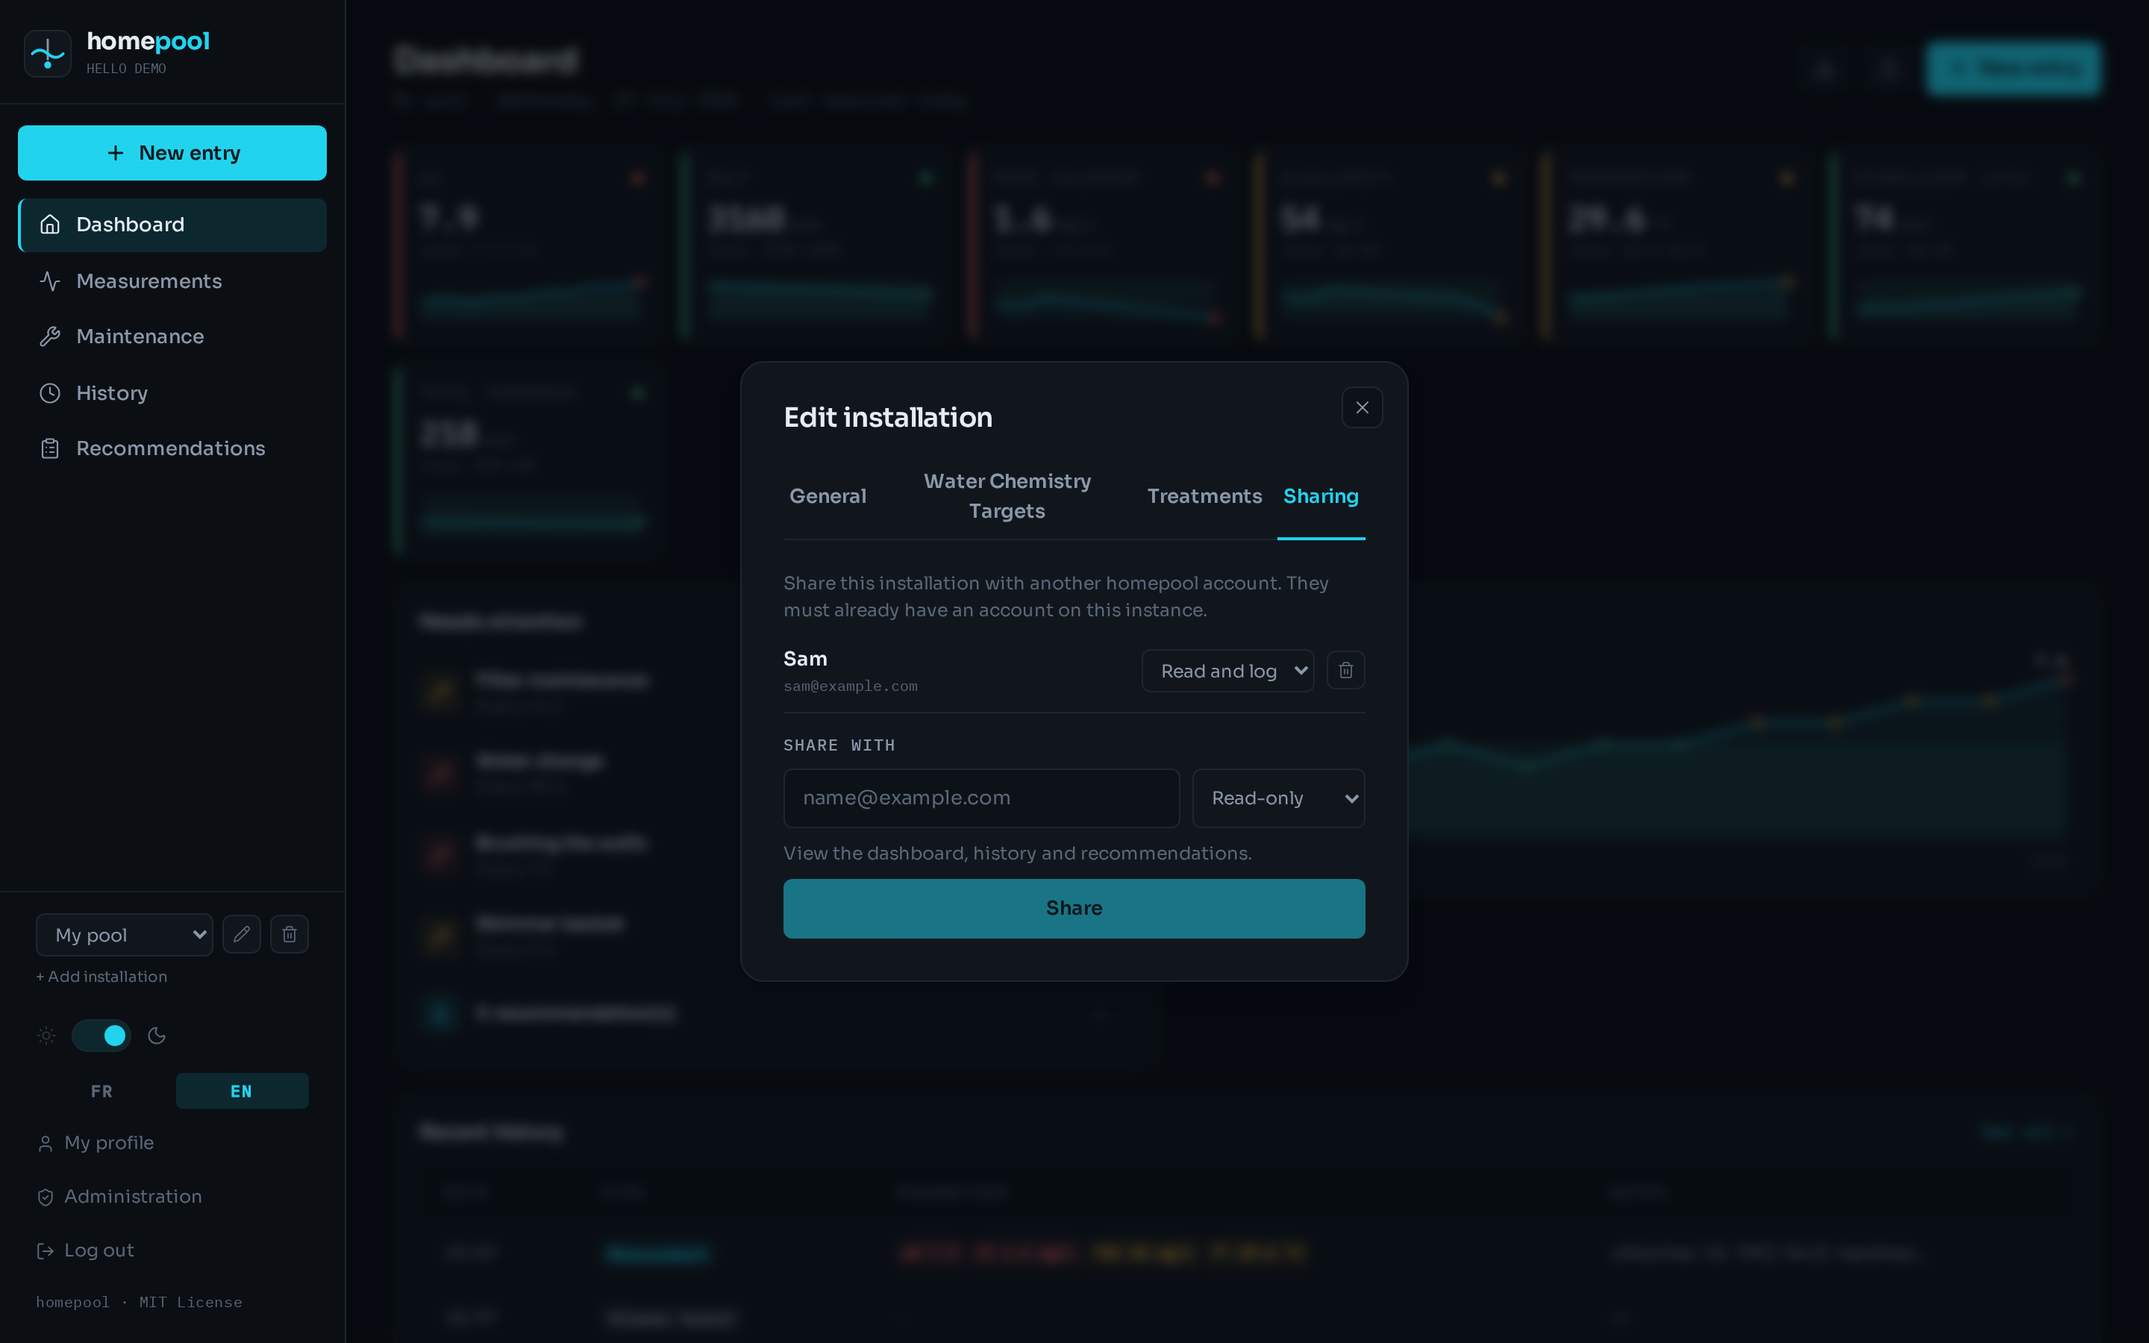
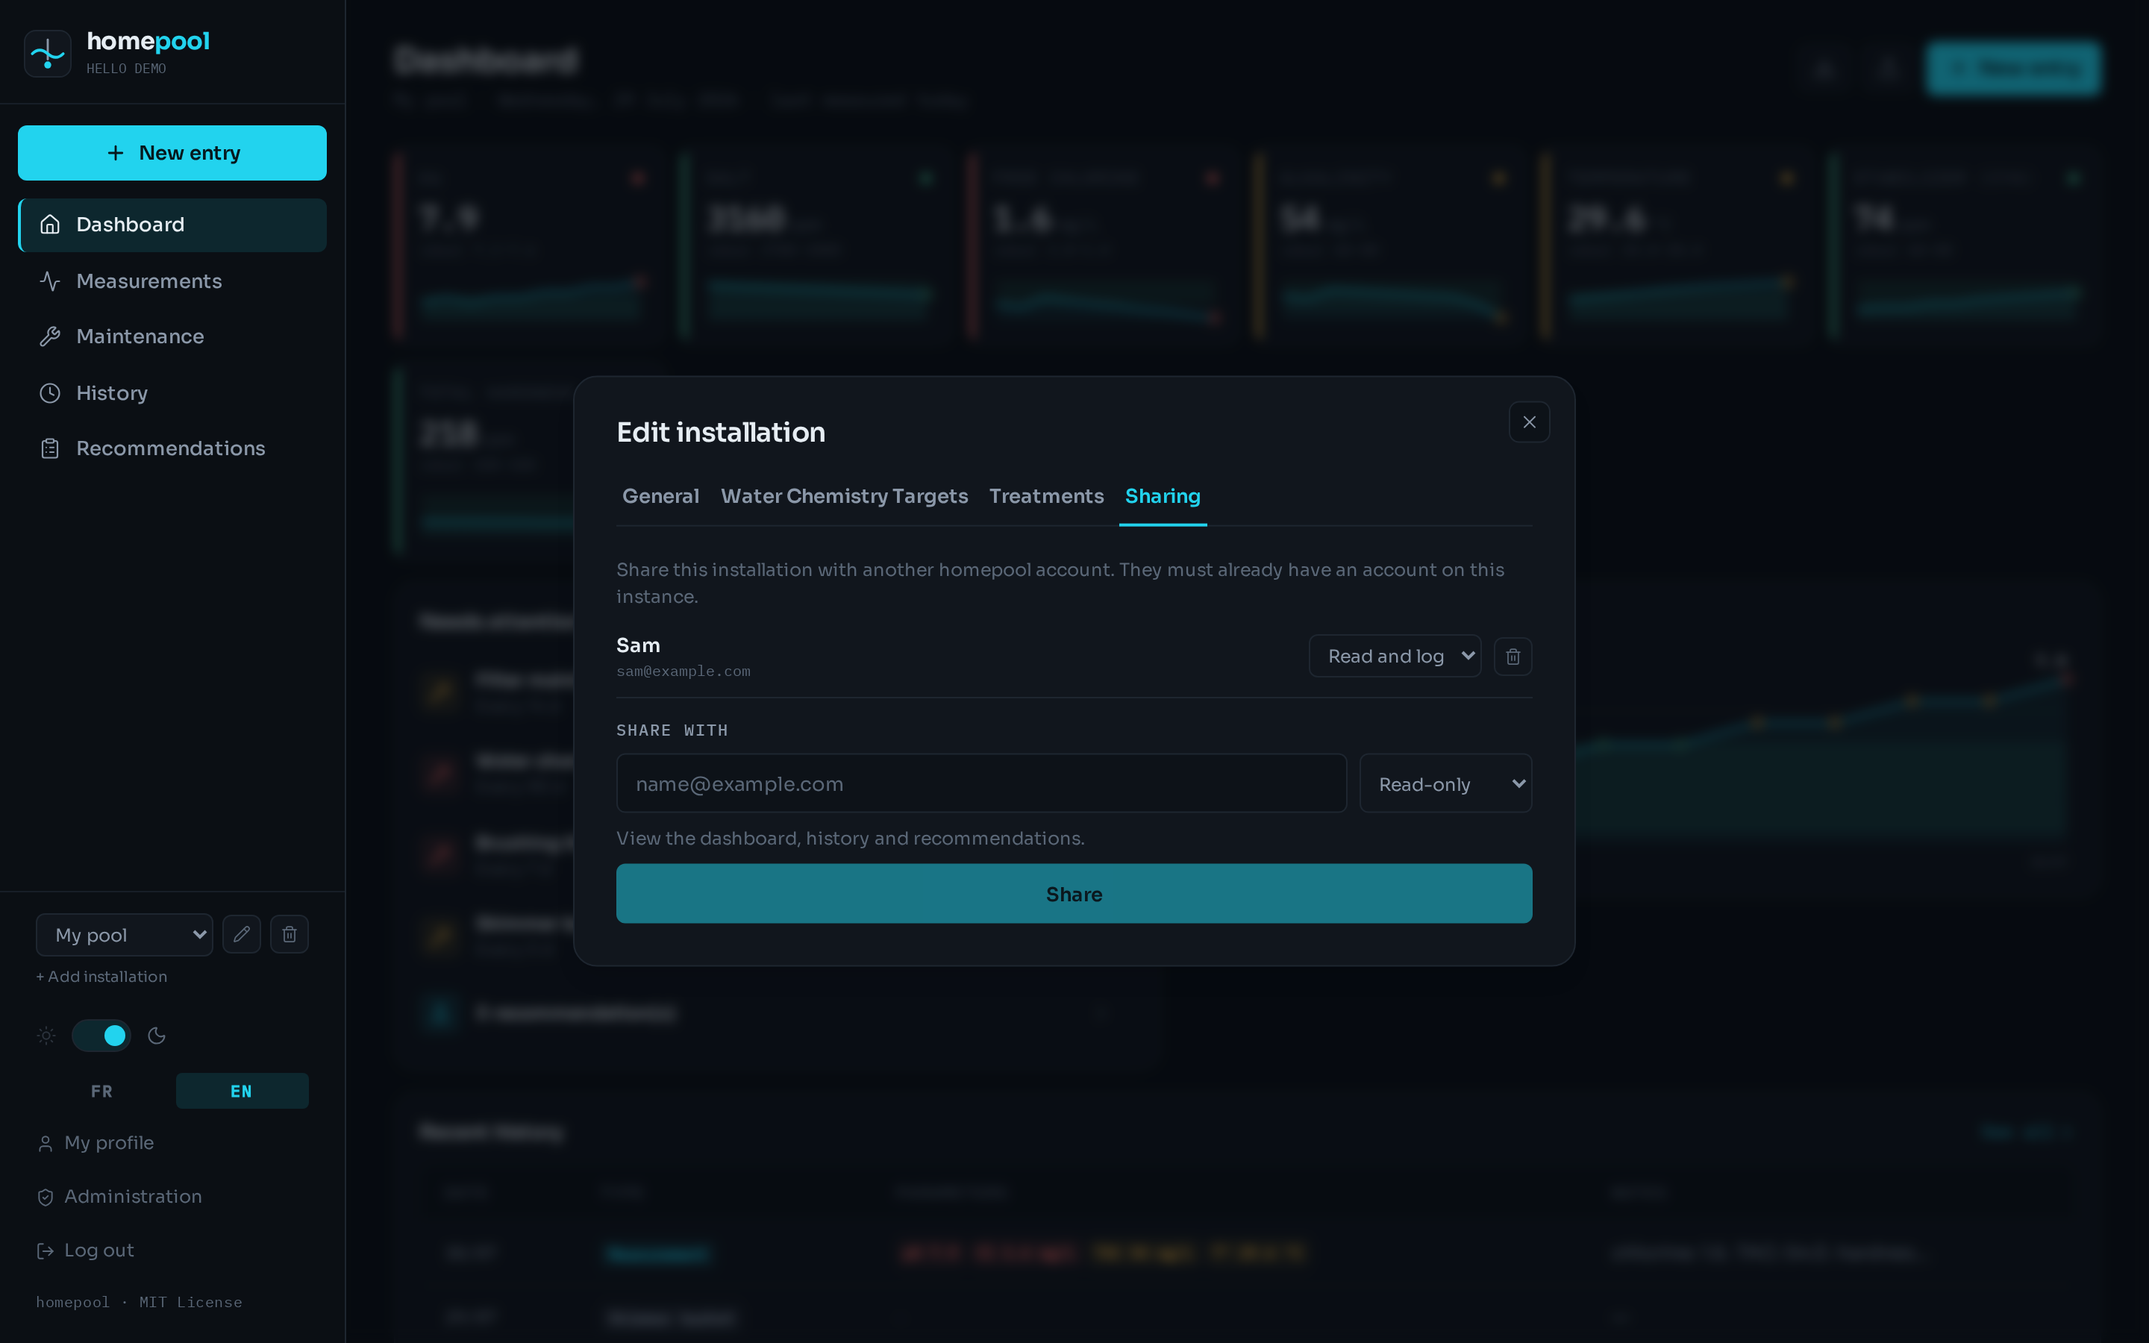
Give the settings and entry modals room to read (#58) (#59)

diff --git a/apps/web/src/components/TreatmentConfig.tsx b/apps/web/src/components/TreatmentConfig.tsx
@@ -204,10 +204,27 @@ export default function TreatmentConfig({ installation, onSaved }: Props) {
 
   const rows = draft.filter(row => !row.deleted)
 
+  // The name is the thing you read the row by, so it gets a floor it can't be
+  // squeezed below: on a narrow dialog (a phone) the unit/parameter/delete group
+  // drops to a second line rather than shaving the name down to a few letters.
   const rowStyle: React.CSSProperties = {
-    display: 'flex', alignItems: 'center', gap: 8,
+    display: 'flex', alignItems: 'center', flexWrap: 'wrap', gap: 8,
     padding: '10px 0', borderBottom: '1px solid var(--border)',
   }
+
+  const nameStyle = (enabled: boolean): React.CSSProperties => ({
+    flex: '1 1 150px', minWidth: 150, opacity: enabled ? 1 : 0.5,
+  })
+
+  const trailingStyle: React.CSSProperties = {
+    display: 'flex', alignItems: 'center', gap: 8, marginLeft: 'auto', flexShrink: 0,
+  }
+
+  // Floors, not fixed widths: they line the rows up into something close to
+  // columns while still letting a long value ("Stabilizer (CYA)") widen its own
+  // trigger rather than be clipped in it.
+  const unitTriggerStyle: React.CSSProperties = { minWidth: 72 }
+  const paramTriggerStyle: React.CSSProperties = { minWidth: 144 }
 
   return (
     <div className="flex flex-col flex-1 min-h-0">
@@ -247,54 +264,56 @@ export default function TreatmentConfig({ installation, onSaved }: Props) {
                 value={row.label}
                 onChange={e => patchRow(row.id, { label: e.target.value })}
                 aria-label={t('treat_product_name')}
-                style={{ flex: 1, minWidth: 0, opacity: row.enabled ? 1 : 0.5 }}
+                style={nameStyle(row.enabled)}
               />
 
-              <Select
-                value={row.default_unit}
-                onValueChange={v => patchRow(row.id, { default_unit: v })}
-              >
-                <SelectTrigger aria-label={t('treat_unit_label')} className="w-auto px-2 gap-1 shrink-0">
-                  <SelectValue />
-                </SelectTrigger>
-                <SelectContent>
-                  {TREATMENT_UNITS.map(u => <SelectItem key={u} value={u}>{u}</SelectItem>)}
-                </SelectContent>
-              </Select>
+              <div style={trailingStyle}>
+                <Select
+                  value={row.default_unit}
+                  onValueChange={v => patchRow(row.id, { default_unit: v })}
+                >
+                  <SelectTrigger aria-label={t('treat_unit_label')} className="w-auto px-2 gap-1 shrink-0" style={unitTriggerStyle}>
+                    <SelectValue />
+                  </SelectTrigger>
+                  <SelectContent>
+                    {TREATMENT_UNITS.map(u => <SelectItem key={u} value={u}>{u}</SelectItem>)}
+                  </SelectContent>
+                </Select>
 
-              <Select
-                value={row.param ?? NO_PARAM}
-                onValueChange={v => patchRow(row.id, { param: v === NO_PARAM ? null : v })}
-              >
-                <SelectTrigger aria-label={t('treat_param_label')} className="w-auto px-2 gap-1 shrink-0">
-                  <SelectValue />
-                </SelectTrigger>
-                <SelectContent>
-                  <SelectItem value={NO_PARAM}>{t('treat_param_none')}</SelectItem>
-                  {PARAM_CHOICES.map(p => (
-                    <SelectItem key={p.value} value={p.value}>{t(p.labelKey)}</SelectItem>
-                  ))}
-                </SelectContent>
-              </Select>
+                <Select
+                  value={row.param ?? NO_PARAM}
+                  onValueChange={v => patchRow(row.id, { param: v === NO_PARAM ? null : v })}
+                >
+                  <SelectTrigger aria-label={t('treat_param_label')} className="w-auto px-2 gap-1 shrink-0" style={paramTriggerStyle}>
+                    <SelectValue />
+                  </SelectTrigger>
+                  <SelectContent>
+                    <SelectItem value={NO_PARAM}>{t('treat_param_none')}</SelectItem>
+                    {PARAM_CHOICES.map(p => (
+                      <SelectItem key={p.value} value={p.value}>{t(p.labelKey)}</SelectItem>
+                    ))}
+                  </SelectContent>
+                </Select>
 
-              <button
-                type="button"
-                onClick={() => patchRow(row.id, { deleted: true })}
-                aria-label={t('treat_delete')}
-                title={t('treat_delete')}
-                style={{
-                  flexShrink: 0, width: 28, height: 28, borderRadius: 'var(--radius-sm)',
-                  background: 'none', border: 'none', color: 'var(--text-muted)', cursor: 'pointer',
-                  display: 'flex', alignItems: 'center', justifyContent: 'center',
-                }}
-              >
-                <Trash2 size={14} strokeWidth={1.75} aria-hidden="true" />
-              </button>
+                <button
+                  type="button"
+                  onClick={() => patchRow(row.id, { deleted: true })}
+                  aria-label={t('treat_delete')}
+                  title={t('treat_delete')}
+                  style={{
+                    flexShrink: 0, width: 28, height: 28, borderRadius: 'var(--radius-sm)',
+                    background: 'none', border: 'none', color: 'var(--text-muted)', cursor: 'pointer',
+                    display: 'flex', alignItems: 'center', justifyContent: 'center',
+                  }}
+                >
+                  <Trash2 size={14} strokeWidth={1.75} aria-hidden="true" />
+                </button>
+              </div>
             </div>
           ))}
 
           {/* Add a product */}
-          <div style={{ display: 'flex', alignItems: 'center', gap: 8, paddingTop: 12 }}>
+          <div style={{ display: 'flex', alignItems: 'center', flexWrap: 'wrap', gap: 8, paddingTop: 12 }}>
             <IconPicker
               value={newIcon}
               onChange={setNewIcon}
@@ -306,20 +325,22 @@ export default function TreatmentConfig({ installation, onSaved }: Props) {
               onKeyDown={e => { if (e.key === 'Enter') { e.preventDefault(); addCustom() } }}
               placeholder={t('treat_product_name_placeholder')}
               aria-label={t('treat_product_name')}
-              style={{ flex: 1, minWidth: 0 }}
+              style={nameStyle(true)}
             />
-            <Select value={newUnit} onValueChange={setNewUnit}>
-              <SelectTrigger aria-label={t('treat_unit_label')} className="w-auto px-2 gap-1 shrink-0">
-                <SelectValue />
-              </SelectTrigger>
-              <SelectContent>
-                {TREATMENT_UNITS.map(u => <SelectItem key={u} value={u}>{u}</SelectItem>)}
-              </SelectContent>
-            </Select>
-            <Button type="button" variant="outline" size="sm" onClick={addCustom} disabled={!newLabel.trim()}>
-              <Plus size={14} strokeWidth={2} aria-hidden="true" />
-              {t('treat_add')}
-            </Button>
+            <div style={trailingStyle}>
+              <Select value={newUnit} onValueChange={setNewUnit}>
+                <SelectTrigger aria-label={t('treat_unit_label')} className="w-auto px-2 gap-1 shrink-0" style={unitTriggerStyle}>
+                  <SelectValue />
+                </SelectTrigger>
+                <SelectContent>
+                  {TREATMENT_UNITS.map(u => <SelectItem key={u} value={u}>{u}</SelectItem>)}
+                </SelectContent>
+              </Select>
+              <Button type="button" variant="outline" size="sm" onClick={addCustom} disabled={!newLabel.trim()}>
+                <Plus size={14} strokeWidth={2} aria-hidden="true" />
+                {t('treat_add')}
+              </Button>
+            </div>
           </div>
         </div>
       )}

diff --git a/apps/web/src/components/MaintenanceConfig.tsx b/apps/web/src/components/MaintenanceConfig.tsx
@@ -199,14 +199,16 @@ export default function MaintenanceConfig({ installationId, open, onClose, onSav
 
   const rows = draft.filter(row => !row.deleted)
 
+  // Same wrapping rule as the treatment rows: the task name keeps a readable
+  // floor and the interval/delete group drops below it when the dialog is narrow.
   const rowStyle: React.CSSProperties = {
-    display: 'flex', alignItems: 'center', gap: 10,
+    display: 'flex', alignItems: 'center', flexWrap: 'wrap', gap: 10,
     padding: '10px 0', borderBottom: '1px solid var(--border)',
   }
 
   return (
     <Dialog open={open} onOpenChange={o => { if (!o) onClose() }}>
-      <DialogContent>
+      <DialogContent className="sm:max-w-lg">
         <DialogHeader>
           <DialogTitle style={{ fontFamily: '"Sora", sans-serif', fontWeight: 600 }}>
             {t('maint_config_title')}
@@ -250,41 +252,45 @@ export default function MaintenanceConfig({ installationId, open, onClose, onSav
                     value={row.label}
                     onChange={e => patchRow(row.id, { label: e.target.value })}
                     aria-label={t('maint_task_name')}
-                    style={{ flex: 1, minWidth: 0, opacity: row.enabled ? 1 : 0.5 }}
+                    style={{ flex: '1 1 150px', minWidth: 150, opacity: row.enabled ? 1 : 0.5 }}
                   />
 
-                  <div style={{ display: 'flex', alignItems: 'center', gap: 4, flexShrink: 0 }}>
-                    <Input
-                      type="number"
-                      min={0}
-                      value={String(row.interval_days)}
-                      onChange={e => patchRow(row.id, { interval_days: Math.max(0, parseInt(e.target.value, 10) || 0) })}
-                      aria-label={t('maint_interval_label')}
-                      style={{ width: 64, opacity: row.enabled ? 1 : 0.5 }}
-                    />
-                    <span style={{ fontFamily: "'IBM Plex Mono', monospace", fontSize: 11, color: 'var(--text-muted)' }}>
-                      {t('todo_day_abbr')}
-                    </span>
-                  </div>
+                  <div style={{ display: 'flex', alignItems: 'center', gap: 10, marginLeft: 'auto', flexShrink: 0 }}>
+                    <div style={{ display: 'flex', alignItems: 'center', gap: 4 }}>
+                      <Input
+                        type="number"
+                        min={0}
+                        value={String(row.interval_days)}
+                        onChange={e => patchRow(row.id, { interval_days: Math.max(0, parseInt(e.target.value, 10) || 0) })}
+                        aria-label={t('maint_interval_label')}
+                        // Wide enough for a three-digit interval (a yearly task
+                        // is 365) without the last digit crowding the border.
+                        style={{ width: 72, opacity: row.enabled ? 1 : 0.5 }}
+                      />
+                      <span style={{ fontFamily: "'IBM Plex Mono', monospace", fontSize: 11, color: 'var(--text-muted)' }}>
+                        {t('todo_day_abbr')}
+                      </span>
+                    </div>
 
-                  <button
-                    type="button"
-                    onClick={() => patchRow(row.id, { deleted: true })}
-                    aria-label={t('maint_delete')}
-                    title={t('maint_delete')}
-                    style={{
-                      flexShrink: 0, width: 28, height: 28, borderRadius: 'var(--radius-sm)',
-                      background: 'none', border: 'none', color: 'var(--text-muted)', cursor: 'pointer',
-                      display: 'flex', alignItems: 'center', justifyContent: 'center',
-                    }}
-                  >
-                    <Trash2 size={14} strokeWidth={1.75} aria-hidden="true" />
-                  </button>
+                    <button
+                      type="button"
+                      onClick={() => patchRow(row.id, { deleted: true })}
+                      aria-label={t('maint_delete')}
+                      title={t('maint_delete')}
+                      style={{
+                        flexShrink: 0, width: 28, height: 28, borderRadius: 'var(--radius-sm)',
+                        background: 'none', border: 'none', color: 'var(--text-muted)', cursor: 'pointer',
+                        display: 'flex', alignItems: 'center', justifyContent: 'center',
+                      }}
+                    >
+                      <Trash2 size={14} strokeWidth={1.75} aria-hidden="true" />
+                    </button>
+                  </div>
                 </div>
               ))}
 
               {/* Add a task */}
-              <div style={{ display: 'flex', alignItems: 'center', gap: 8, paddingTop: 12 }}>
+              <div style={{ display: 'flex', alignItems: 'center', flexWrap: 'wrap', gap: 8, paddingTop: 12 }}>
                 <IconPicker
                   value={newIcon}
                   onChange={setNewIcon}
@@ -296,20 +302,22 @@ export default function MaintenanceConfig({ installationId, open, onClose, onSav
                   onKeyDown={e => { if (e.key === 'Enter') { e.preventDefault(); addCustom() } }}
                   placeholder={t('maint_task_name_placeholder')}
                   aria-label={t('maint_task_name')}
-                  style={{ flex: 1, minWidth: 0 }}
+                  style={{ flex: '1 1 150px', minWidth: 150 }}
                 />
-                <Input
-                  type="number"
-                  min={0}
-                  value={newInterval}
-                  onChange={e => setNewInterval(e.target.value)}
-                  aria-label={t('maint_interval_label')}
-                  style={{ width: 64 }}
-                />
-                <Button type="button" variant="outline" size="sm" onClick={addCustom} disabled={!newLabel.trim()}>
-                  <Plus size={14} strokeWidth={2} aria-hidden="true" />
-                  {t('maint_add')}
-                </Button>
+                <div style={{ display: 'flex', alignItems: 'center', gap: 8, marginLeft: 'auto', flexShrink: 0 }}>
+                  <Input
+                    type="number"
+                    min={0}
+                    value={newInterval}
+                    onChange={e => setNewInterval(e.target.value)}
+                    aria-label={t('maint_interval_label')}
+                    style={{ width: 72 }}
+                  />
+                  <Button type="button" variant="outline" size="sm" onClick={addCustom} disabled={!newLabel.trim()}>
+                    <Plus size={14} strokeWidth={2} aria-hidden="true" />
+                    {t('maint_add')}
+                  </Button>
+                </div>
               </div>
             </div>
           )}

diff --git a/apps/web/src/App.tsx b/apps/web/src/App.tsx
@@ -241,7 +241,7 @@ function AppMain({ user, onLogout, onUserUpdate, theme, setTheme }: AppMainProps
 
       {/* Dialog — new entry */}
       <Dialog open={entryForm !== null} onOpenChange={open => { if (!open) setEntryForm(null) }}>
-        <DialogContent className="sm:max-w-md" onOpenAutoFocus={e => e.preventDefault()}>
+        <DialogContent className="sm:max-w-lg" onOpenAutoFocus={e => e.preventDefault()}>
           <DialogHeader>
             <DialogTitle style={{ fontFamily: '"Sora", sans-serif', fontWeight: 600 }}>
               {t('modal_title')}
@@ -261,7 +261,7 @@ function AppMain({ user, onLogout, onUserUpdate, theme, setTheme }: AppMainProps
 
       {/* Dialog — edit */}
       <Dialog open={!!editingAction} onOpenChange={open => { if (!open) setEditingAction(null) }}>
-        <DialogContent className="sm:max-w-md" onOpenAutoFocus={e => e.preventDefault()}>
+        <DialogContent className="sm:max-w-lg" onOpenAutoFocus={e => e.preventDefault()}>
           <DialogHeader>
             <DialogTitle style={{ fontFamily: '"Sora", sans-serif', fontWeight: 600 }}>
               {t('modal_edit')}

diff --git a/apps/web/src/components/InstallationModal.tsx b/apps/web/src/components/InstallationModal.tsx
@@ -205,7 +205,10 @@ export default function InstallationModal({ open, onClose, installation }: Props
 
   return (
     <Dialog open={open} onOpenChange={v => { if (!v) handleClose() }}>
-      <DialogContent className={isEdit ? 'sm:max-w-md' : 'sm:max-w-sm'}>
+      {/* Editing is the wide case: the Treatments and Water Chemistry tabs are
+          rows of controls (name + unit + parameter, four range fields) that get
+          squeezed to unreadable in a narrow dialog. Creating is one short form. */}
+      <DialogContent className={isEdit ? 'sm:max-w-2xl' : 'sm:max-w-sm'}>
         <DialogHeader>
           <DialogTitle style={{ fontFamily: '"Sora", sans-serif', fontWeight: 600 }}>
             {isEdit ? t('modal_install_title_edit') : t('modal_install_title')}

diff --git a/CHANGELOG.md b/CHANGELOG.md
@@ -6,6 +6,8 @@ The format is based on [Keep a Changelog](https://keepachangelog.com/en/1.1.0/).
 
 ## [Unreleased]
 
+## [1.10.1] - 2026-07-30
+
 ## [1.10.0] - 2026-07-29
 
 ## [1.9.0] - 2026-07-29
